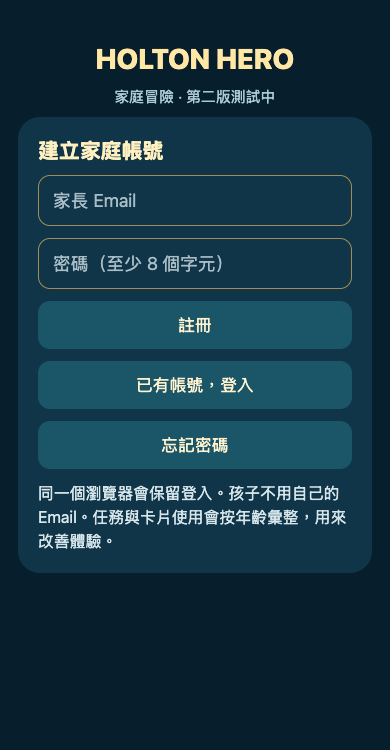
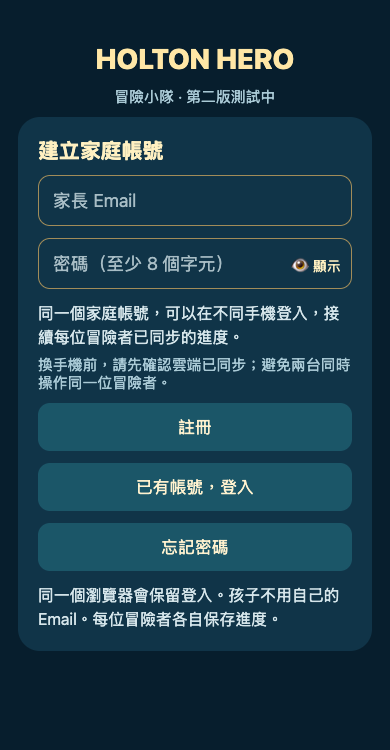
feat(family): edit and restore adventurers with password visibility controls
actor=bot approval=user:23196-and-followups trigger=profile-management-password-eyes-cloud-onboarding

diff --git a/src/family/FamilyApp.tsx b/src/family/FamilyApp.tsx
@@ -1,3 +1,4 @@
+import PasswordInput from '../PasswordInput';
 import ChildNames from './ChildNames';
 import React,{useEffect,useMemo,useState,useRef} from 'react';
 import {View,Text,TextInput,Pressable,ScrollView,StyleSheet,useWindowDimensions} from 'react-native';
@@ -43,7 +44,7 @@ export default function FamilyApp(){
  }
  const heading=<><Text style={styles.title}>HOLTON HERO</Text><Text style={styles.subtitle}>冒險小隊 · 第二版測試中</Text></>;
  if(!loaded)return <View style={styles.page}><Text style={styles.text}>正在準備冒險小隊…</Text></View>;
- if(!session||recovering)return <ScrollView style={styles.page} contentContainerStyle={styles.center} keyboardShouldPersistTaps="handled">{heading}<View style={styles.card}><Text style={styles.heading}>{recovering?'設定新密碼':signup?'建立家庭帳號':'歡迎回到家庭冒險'}</Text>{!recovering?<TextInput accessibilityLabel="家長 Email" autoCapitalize="none" autoComplete="email" keyboardType="email-address" placeholder="家長 Email" placeholderTextColor="#a8bdc5" value={email} onChangeText={setEmail} style={styles.input}/>:null}<TextInput accessibilityLabel="家庭帳號密碼" secureTextEntry autoCapitalize="none" autoComplete={signup||recovering?'new-password':'current-password'} placeholder="密碼（至少 8 個字元）" placeholderTextColor="#a8bdc5" value={password} onChangeText={setPassword} style={styles.input}/><Btn label={recovering?'儲存新密碼':signup?'註冊':'登入'} disabled={busy} onPress={()=>void run(async()=>{if(recovering){if(password.length<8)throw Error('密碼至少 8 個字元。');const {error}=await supabase.auth.updateUser({password});if(error)throw error;setPassword('');setRecovering(false);}else await authenticate();})}/>{!recovering?<><Btn label={signup?'已有帳號，登入':'第一次使用，建立家庭帳號'} disabled={busy} onPress={()=>{setSignup(!signup);setNotice('');}}/><Btn label="忘記密碼" disabled={busy} onPress={()=>void run(async()=>{if(!email.trim())throw Error('請先填家長 Email。');const {error}=await supabase.auth.resetPasswordForEmail(email.trim(),{redirectTo:location.origin});if(error)throw error;setNotice('若這個信箱有帳號，將收到重設密碼信。');})}/></>:null}<Text style={styles.text}>同一個瀏覽器會保留登入。孩子不用自己的 Email。每位冒險者各自保存進度。</Text>{notice?<Text accessibilityRole="alert" style={styles.notice}>{notice}</Text>:null}</View></ScrollView>;
+ if(!session||recovering)return <ScrollView style={styles.page} contentContainerStyle={styles.center} keyboardShouldPersistTaps="handled">{heading}<View style={styles.card}><Text style={styles.heading}>{recovering?'設定新密碼':signup?'建立家庭帳號':'歡迎回到家庭冒險'}</Text>{!recovering?<TextInput accessibilityLabel="家長 Email" autoCapitalize="none" autoComplete="email" keyboardType="email-address" placeholder="家長 Email" placeholderTextColor="#a8bdc5" value={email} onChangeText={setEmail} style={styles.input}/>:null}<PasswordInput key={`${signup}-${recovering}`} resetKey={`${signup}-${recovering}`} accessibilityLabel="家庭帳號密碼" autoCapitalize="none" autoComplete={signup||recovering?'new-password':'current-password'} placeholder="密碼（至少 8 個字元）" placeholderTextColor="#a8bdc5" value={password} onChangeText={setPassword} style={styles.input}/>{!recovering?<View style={{gap:6}}><Text style={styles.text}>{signup?'同一個家庭帳號，可以在不同手機登入，接續每位冒險者已同步的進度。':'換手機也能玩：登入同一家庭帳號，選擇原本的冒險者即可接續已同步的進度。'}</Text>{signup?<Text style={styles.subtitle}>換手機前，請先確認雲端已同步；避免兩台同時操作同一位冒險者。</Text>:null}</View>:null}<Btn label={recovering?'儲存新密碼':signup?'註冊':'登入'} disabled={busy} onPress={()=>void run(async()=>{if(recovering){if(password.length<8)throw Error('密碼至少 8 個字元。');const {error}=await supabase.auth.updateUser({password});if(error)throw error;setPassword('');setRecovering(false);}else await authenticate();})}/>{!recovering?<><Btn label={signup?'已有帳號，登入':'第一次使用，建立家庭帳號'} disabled={busy} onPress={()=>{setSignup(!signup);setNotice('');}}/><Btn label="忘記密碼" disabled={busy} onPress={()=>void run(async()=>{if(!email.trim())throw Error('請先填家長 Email。');const {error}=await supabase.auth.resetPasswordForEmail(email.trim(),{redirectTo:location.origin});if(error)throw error;setNotice('若這個信箱有帳號，將收到重設密碼信。');})}/></>:null}<Text style={styles.text}>同一個瀏覽器會保留登入。孩子不用自己的 Email。每位冒險者各自保存進度。</Text>{notice?<Text accessibilityRole="alert" style={styles.notice}>{notice}</Text>:null}</View></ScrollView>;
  if(playing){const players=children.filter(c=>selected.includes(c.id));return <View style={styles.page}>{players.length===2&&!expanded?<View testID="family-game-nav" style={[styles.top,players.length===2&&!expanded&&{flexDirection:'row',flexWrap:'wrap',alignItems:'center',justifyContent:'space-between'}]}><Btn label={expanded&&players.length===2?'回雙人畫面':'回冒險小隊'} onPress={()=>{if(expanded&&players.length===2)setExpanded(null);else {setPlaying(false);setExpanded(null);setSelected(children.slice(0,2).map(c=>c.id));}}}/>{players.length===2&&!expanded?null:<Text style={styles.text}>任務各自計時</Text>}{players.length===2&&!expanded?<Btn label="兩人一起開始" disabled={busy} onPress={()=>void run(async()=>{const pair=players.map(c=>controls.current[c.id]);if(pair.some(c=>!c?.ready))throw Error('請先替兩位選好夥伴、任務與時間；進行中的任務不會重啟。');const at=Date.now();const results=await Promise.all(pair.map(c=>c!.start(at)));if(results.some(ok=>!ok))throw Error('有任務尚未開始，請查看各自的儲存提示；已開始的會繼續計時。');})}/>:null}{notice?<Text accessibilityRole="alert" style={[styles.notice,{width:'100%'}]}>{notice}</Text>:null}</View>:null}<ScrollView contentContainerStyle={{flexGrow:1}}><View style={{flexDirection:width>=700&&!expanded?'row':'column',flex:1}}>{players.map((c,i)=><View key={c.id} style={{flex:1,display:expanded&&expanded!==c.id?'none':'flex'}}><ChildGame solo={players.length===1} onMenu={()=>void familyMenu()} onSolo={players.length===2?()=>void chooseSolo(c.id):undefined} controls={controls} child={c} compact={players.length===2&&expanded!==c.id} musicOwner={i===0} onExpand={()=>setExpanded(c.id)}/></View>)}</View></ScrollView></View>;}
  return <FamilyStorageContext.Provider value={scope}><ScrollView style={styles.page} contentContainerStyle={styles.center} keyboardShouldPersistTaps="handled">{heading}<View style={styles.card}><Text style={styles.heading}>我們的冒險小隊</Text><Text style={styles.text}>每位冒險者各自保存進度，同畫面最多兩位一起玩。</Text>{children.length>2?<><Text style={styles.text}>選今天的冒險者（最多兩位，可先取消已選的人）。</Text>{children.map(c=><Btn key={c.id} label={`${selected.includes(c.id)?'✓ ':''}${c.nickname}`} onPress={()=>setSelected(ids=>ids.includes(c.id)?ids.filter(id=>id!==c.id):ids.length<2?[...ids,c.id]:ids)}/>)}</>:null}<Btn label={selected.length===2?'開始雙人冒險':'開始冒險'} disabled={!pinReady||selected.length===0||busy} onPress={()=>{setExpanded(null);setManage(false);setPlaying(true);}}/>{children.map(c=><Btn key={c.id} label={`只有 ${c.nickname} 玩`} disabled={!pinReady} onPress={()=>void chooseSolo(c.id)}/>)}{family?<Btn label={pinReady?'家長管理孩子':'設定家長小屋 PIN'} onPress={()=>setPinOpen(true)}/>:<Text style={styles.text}>正在讀取家庭…</Text>}{manage?<View style={{gap:10}}><ChildNames key={family} family={family} children={children} onSaved={kids=>{setChildren(kids);setSelected(kids.slice(0,2).map(c=>c.id));}}/><Btn label="離開家長管理" onPress={()=>setManage(false)}/><Btn label="登出家庭帳號" onPress={()=>void run(async()=>{const {error}=await supabase.auth.signOut();if(error)throw error;})}/></View>:null}{notice?<Text accessibilityRole="alert" style={styles.notice}>{notice}</Text>:null}</View></ScrollView><ParentPinGate visible={pinOpen&&!!family} onConfirm={()=>{setPinOpen(false);setPinReady(true);setManage(true);}} onCancel={()=>setPinOpen(false)}/></FamilyStorageContext.Provider>;
 }

diff --git a/src/family/ChildNames.tsx b/src/family/ChildNames.tsx
@@ -1,19 +1,33 @@
-import React,{useState} from 'react';
-import {View,Text,TextInput,Pressable} from 'react-native';
+import React,{useRef,useState} from 'react';
+import {View,Text,TextInput,Pressable,Modal} from 'react-native';
 import {supabase,listChildren} from './client';
 import {validateChildProfile,type ChildProfile} from './types';
+type Archived={id:string;nickname:string};
 export default function ChildNames({family,children,onSaved}:{family:string;children:ChildProfile[];onSaved:(kids:ChildProfile[])=>void}){
  const [names,setNames]=useState(()=>children.length?children.map(c=>c.nickname):['']);
- const [busy,setBusy]=useState(false),[notice,setNotice]=useState('');
- async function save(){if(busy)return;setBusy(true);setNotice('');try{
-  const values=names.map(n=>n.trim());if(!values[0])throw Error('請先填第一位孩子的名字。');
-  values.forEach((name,i)=>{if(name)validateChildProfile(name,children[i]?.ageYears??null);else if(children[i])throw Error('已有進度的名字不能清空；可以直接修改名字。');});
+ const [busy,setBusy]=useState(false),[notice,setNotice]=useState(''),[editing,setEditing]=useState<number|null>(null),[deleting,setDeleting]=useState<ChildProfile|null>(null),[archived,setArchived]=useState<Archived[]|null>(null);
+ const lock=useRef(false),inputs=useRef<(TextInput|null)[]>([]);
+ const dirty=names.some((n,i)=>n.trim()!==(children[i]?.nickname??''));
+ const button=(label:string,fn:()=>void,danger=false)=><Pressable accessibilityRole="button" accessibilityLabel={label} disabled={busy} onPress={fn} style={{padding:12,minHeight:44,borderWidth:1,borderColor:danger?'#d5a08b':'#a18c59',borderRadius:10,opacity:busy?.5:1}}><Text style={{color:danger?'#ffd2bc':'#fff2cf',textAlign:'center'}}>{label}</Text></Pressable>;
+ async function refresh(){const kids=await listChildren(family);setNames(kids.length?kids.map(c=>c.nickname):['']);setEditing(null);onSaved(kids);}
+ async function loadArchived(){const {data,error}=await supabase.rpc('list_archived_children');if(error)throw error;setArchived(data??[]);}
+ async function run(action:()=>Promise<void>){if(lock.current)return;lock.current=true;setBusy(true);setNotice('');try{await action();}catch(e){setNotice(e instanceof Error?e.message:'操作未完成，請確認網路後再試；原有進度保留。');}finally{lock.current=false;setBusy(false);}}
+ async function save(){await run(async()=>{
+  const values=names.map(n=>n.trim());if(!values.some(Boolean))throw Error('請填寫冒險者名字。');
+  values.forEach((name,i)=>{if(name)validateChildProfile(name,children[i]?.ageYears??null);else if(children[i])throw Error('名字不能清空；要移除請按刪除。');});
   if(new Set(values.filter(Boolean)).size!==values.filter(Boolean).length)throw Error('請使用不同的名字，方便辨認。');
   for(let i=0;i<values.length;i++){if(!values[i]||values[i]===children[i]?.nickname)continue;
    const result=children[i]?await supabase.from('children').update({nickname:values[i]}).eq('id',children[i].id).eq('family_id',family):await supabase.from('children').insert({family_id:family,nickname:values[i],age_years:null});
-   if(result.error)throw result.error;
+   if(result.error){await refresh();throw Error('尚未全部儲存，請確認名字與網路後再試；已有進度不會刪除。');}
   }
-  const kids=await listChildren(family);setNames(kids.map(c=>c.nickname));onSaved(kids);setNotice('名字已儲存，原有進度保留。');
- }catch{try{onSaved(await listChildren(family));}catch{}setNotice('尚未全部儲存，請確認名字與網路後再試；已有進度不會刪除。');}finally{setBusy(false);}}
- return <View style={{gap:12}}><Text style={{color:'#fff0c1',fontSize:22}}>管理冒險者</Text>{names.map((_,i)=><TextInput key={i} accessibilityLabel={`孩子 ${i+1} 的名字`} placeholder={i?'冒險者名字':'第一位冒險者'} placeholderTextColor="#a8bdc5" value={names[i]} maxLength={20} editable={!busy} onChangeText={v=>setNames(old=>old.map((n,j)=>j===i?v:n))} style={{borderWidth:1,borderColor:'#a18c59',borderRadius:12,padding:14,color:'#fff',fontSize:18}}/>)}<Text style={{color:'#c7e1e7'}}>可以建立多位冒險者，同畫面最多選兩位一起玩。</Text><Pressable accessibilityRole="button" accessibilityLabel="新增冒險者" disabled={busy} onPress={()=>setNames(old=>[...old,''])} style={{padding:14,borderWidth:1,borderColor:'#a18c59',borderRadius:12}}><Text style={{color:'#fff2cf',textAlign:'center'}}>＋ 新增冒險者</Text></Pressable><Pressable accessibilityRole="button" accessibilityLabel="儲存名字" disabled={busy} onPress={()=>void save()} style={{padding:14,backgroundColor:'#1b5668',borderRadius:12}}><Text style={{color:'#fff2cf',textAlign:'center'}}>儲存名字</Text></Pressable>{notice?<Text accessibilityRole="alert" style={{color:'#ffd2b0'}}>{notice}</Text>:null}</View>;
+  await refresh();setNotice('名字已儲存，原有進度保留。');
+ });}
+ function requestDelete(child:ChildProfile){if(dirty){setNotice('請先儲存或取消正在編輯的名字，再刪除冒險者。');return;}setDeleting(child);}
+ async function archive(child:Archived,hidden:boolean){await run(async()=>{const {error}=await supabase.rpc('set_child_archived',{p_child_id:child.id,p_archived:hidden});if(error)throw Error('操作未完成，請確認網路；復原時請確認小隊沒有同名冒險者。');await refresh();await loadArchived();setDeleting(null);setNotice(hidden?`已從小隊移除 ${child.nickname}，進度保留，可在下方復原。`:`已復原 ${child.nickname}，原有進度保留。`);});}
+ return <View style={{gap:12}}><Text style={{color:'#fff0c1',fontSize:22}}>管理冒險者</Text>{names.map((_,i)=><View key={children[i]?.id??`new-${i}`} style={{gap:8}}><TextInput ref={el=>{inputs.current[i]=el;}} accessibilityLabel={`孩子 ${i+1} 的名字`} placeholder="冒險者名字" placeholderTextColor="#a8bdc5" value={names[i]} maxLength={20} editable={!busy&&(!children[i]||editing===i)} onChangeText={v=>setNames(old=>old.map((n,j)=>j===i?v:n))} style={{borderWidth:1,borderColor:editing===i?'#ffe0a0':'#a18c59',borderRadius:12,padding:14,color:'#fff',fontSize:18}}/><View style={{flexDirection:'row',gap:8,flexWrap:'wrap'}}>{children[i]?<>{button(`編輯 ${children[i].nickname}`,()=>{setEditing(i);setTimeout(()=>inputs.current[i]?.focus(),0);})}{button(`刪除 ${children[i].nickname}`,()=>requestDelete(children[i]),true)}</>:button('取消新增',()=>setNames(old=>old.filter((_,j)=>j!==i)))}</View></View>)}
+ <Text style={{color:'#c7e1e7'}}>可以建立多位冒險者，同畫面最多選兩位一起玩。</Text>{button('新增冒險者',()=>setNames(old=>[...old,'']))}{button('儲存名字',()=>void save())}{dirty?button('取消編輯',()=>{setNames(children.length?children.map(c=>c.nickname):['']);setEditing(null);setNotice('');}):null}
+ {button('已刪除的冒險者',()=>void run(loadArchived))}{archived?<View style={{gap:8}}>{archived.length?archived.map(c=><View key={c.id}>{button(`復原 ${c.nickname}`,()=>{if(dirty){setNotice('請先儲存或取消編輯。');return;}void archive(c,false);})}</View>):<Text style={{color:'#c7e1e7'}}>沒有已刪除的冒險者。</Text>}</View>:null}
+ {notice?<Text accessibilityRole="alert" style={{color:'#ffd2b0'}}>{notice}</Text>:null}
+ <Modal visible={!!deleting} transparent onRequestClose={()=>!busy&&setDeleting(null)}><View style={{flex:1,justifyContent:'center',alignItems:'center',backgroundColor:'rgba(0,0,0,.8)',padding:20}}><View style={{width:'100%',maxWidth:420,padding:20,gap:16,borderRadius:16,backgroundColor:'#103448'}}><Text style={{color:'#fff0c1',fontSize:22}}>刪除 {deleting?.nickname}？</Text><Text style={{color:'#d5e5ea',fontSize:16,lineHeight:24}}>會從冒險小隊移除，進度仍保留。之後可在「已刪除的冒險者」復原。</Text>{button('取消刪除',()=>setDeleting(null))}{button('確認刪除',()=>{if(deleting)void archive(deleting,true);},true)}{notice?<Text accessibilityRole="alert" style={{color:'#ffd2b0'}}>{notice}</Text>:null}</View></View></Modal>
+ </View>;
 }

diff --git a/src/LightApp.tsx b/src/LightApp.tsx
@@ -380,13 +380,13 @@ export default function LightApp({childNickname,compact=false,musicOwner=true,on
     {error ? <Text accessibilityRole="alert" style={styles.error}>{error}</Text> : null}
     {soundBlocked&&state.phase==='active'&&state.taskSoundEnabled!==false?<View style={styles.card}><Text style={styles.caption}>時間到了。裝置未能自動播放聲音。</Text>{button('播放到時提示音',()=>{armChime();setTimeout(()=>void playChime().then(ok=>setSoundBlocked(!ok)),100);},true)}</View>:null}
     {inVillage&&resumeTutorial&&(homePhase||state.phase==='preparing')?button('繼續新手教學',()=>{void (async()=>{if(state.phase==='done'&&!await change(s=>({...s,phase:'ready',deadline:null,help:false,remaining:s.minutes*60})))return;setTutorialReplay(n=>Math.abs(n)+1);})();},true):null}
-    {inVillage?<AdventureVillage childName={normalizeChildName(state.childName)} reduced={reduceMotion} orbs={state.orbs} world={worlds[world].name} steps={journey.counts[world]} today={today.length} goal={state.dailyGoal??3} task={state.title} ongoing={!homePhase} saving={saving} onStart={()=>void startFromVillage()} onVisit={place=>{if(place==='map')setMapOpen(true);else if(place==='parent')openParent();else navigateRoom(place);}}/>:null}
+    {inVillage?<AdventureVillage childName={normalizeChildName(childNickname??state.childName)} reduced={reduceMotion} orbs={state.orbs} world={worlds[world].name} steps={journey.counts[world]} today={today.length} goal={state.dailyGoal??3} task={state.title} ongoing={!homePhase} saving={saving} onStart={()=>void startFromVillage()} onVisit={place=>{if(place==='map')setMapOpen(true);else if(place==='parent')openParent();else navigateRoom(place);}}/>:null}
     {!settingsOpen&&homePhase&&room==='mission'?<><View style={{flexDirection:'row',justifyContent:'space-between',gap:8}}>{button('冒險地圖',()=>setMapOpen(true),true)}{button('看看我的旅程',()=>setJourneyOpen(true),true)}</View>{state.phase==='ready'?<View style={{gap:8}}>{journey.counts[world]===0?<Text style={[styles.body,{padding:12,backgroundColor:'rgba(8,35,49,.7)',borderRadius:14}]}>{worlds[world].intro}</Text>:null}<JourneyHint journeys={journey} world={world} onPress={()=>setJourneyOpen(true)}/></View>:null}</>:null}
 
     {settingsOpen ? <>
       <Text style={styles.body}>一起約定目標與獎勵，照孩子的步調來。</Text>
       <View testID="parent-layout">{familyNavigation?<View testID="family-mode-settings" style={styles.card}><Text style={styles.section}>小隊遊玩模式</Text><Text style={styles.caption}>{familyNavigation.sync}</Text>{familyNavigation.onSolo?button('改為完整單人模式',familyNavigation.onSolo,true):<Text style={styles.body}>目前為完整單人模式</Text>}{button('切換孩子／雙人模式',familyNavigation.onMenu,true)}</View>:null}<View testID="parent-nav" style={{flexDirection:'row',flexWrap:'wrap',gap:8}}>{([['profile','小朋友資料'],['tasks','任務與目標'],['rewards','心願獎勵'],['music','音樂'],['preferences','設定與教學'],['records','完成紀錄'],['backup','備份與重置']] as const).map(([id,label])=><Pressable key={id} accessibilityRole="button" accessibilityLabel={label} accessibilityState={{selected:parentTab===id}} onPress={()=>{setParentTab(id);setNotice('');}} style={[styles.smallLink,parentTab===id&&styles.selectedCard]}><Text style={styles.body}>{label}</Text></Pressable>)}</View>
-      <View testID="parent-content">{parentTab==='profile'?<ChildProfile name={normalizeChildName(state.childName)} busy={saving} onSave={name=>change(s=>({...s,childName:name}))}/>:null}
+      <View testID="parent-content">{parentTab==='profile'?(familyNavigation?<View style={styles.card}><Text style={styles.section}>{normalizeChildName(childNickname??state.childName)}</Text>{button('管理冒險者名字',familyNavigation.onMenu,true)}</View>:<ChildProfile name={normalizeChildName(childNickname??state.childName)} busy={saving} onSave={name=>change(s=>({...s,childName:name}))}/>):null}
       {parentTab==='music'?<FocusMusicSettings enabled={state.focusMusicEnabled===true} selected={musicTrack} previewId={music.previewId} busy={saving} status={music.status} onToggle={()=>void toggleMusic()} onSelect={id=>{music.stopPreview();void change(s=>({...s,focusMusicTrackId:id}));}} onPreview={music.preview} onRetry={music.retry} onStopPreview={music.stopPreview}/>:null}
       {parentTab==='backup'?<BackupTools data={state} busy={saving} allowed={homePhase&&!challenge} onRestore={snapshot=>replaceProgress(snapshot)} onReset={()=>replaceProgress(null)} onReadRecovery={()=>storage.getItem(RECOVERY_KEY)}/>:null}
       {parentTab==='records'?<WeeklyFootprints history={state.history} receipts={state.wishReceipts??[]} now={now}/>:null}
@@ -504,7 +504,7 @@ export default function LightApp({childNickname,compact=false,musicOwner=true,on
     {!inVillage && showWorldReminder ? <View style={styles.reminder} accessibilityLiveRegion="polite"><Text style={styles.section}>你有世界卡可以換點數！</Text><Text style={styles.body}>目前可領 ＋{exchangePlan.points} 能量球，現在領取嗎？</Text><Text style={styles.caption}>先看明細，再確認。下次再換也不會過期。</Text>{button('去兌換', () => setWorldExchangeOpen(true))}{button('下次再說', () => void change(s => ({ ...s, worldReminderDismissedDay: worldExchangeDay(Date.now()) })), true)}</View> : null}
       {!settingsOpen && showWorldAlbum && !!state.collection?.length ? <View style={styles.card}><Text style={styles.section}>我的世界卡</Text><Text style={styles.body}>{exchangePlan.blocked ? '今天已兌換，新卡留到明天。' : `目前可換 ＋${exchangePlan.points} 能量球`}</Text>{button('查看兌換明細', () => setWorldExchangeOpen(true), true)}<ScrollView horizontal contentContainerStyle={styles.deck}>{state.collection.map(item => { const card = worldEvents.find(c => c.id === item.cardId); return card ? <View key={item.id} style={styles.taskCard}><Image source={card.imageSource} accessibilityLabel={card.title} resizeMode="contain" style={styles.cardArt} /><Text style={styles.cardName}>{card.title}</Text><Text style={styles.caption}>{item.redeemedAt ? '✓ 已兌換 · 保留收藏' : worldRewardLabel(item.cardId)}</Text></View> : null; })}</ScrollView></View> : null}
   </ScrollView>
-    <WelcomeGuide childName={normalizeChildName(state.childName)} askName={state.onboardingDone===false} error={error} visible={(state.onboardingDone===false||introReplay)&&homePhase&&!pending&&!challenge} busy={saving} onClose={(start,name)=>void finishGuide(start,name)}/>
+    <WelcomeGuide childName={normalizeChildName(childNickname??state.childName)} askName={state.onboardingDone===false} error={error} visible={(state.onboardingDone===false||introReplay)&&homePhase&&!pending&&!challenge} busy={saving} onClose={(start,name)=>void finishGuide(start,name)}/>
     <SpotlightGuide key={`guide-${tutorialReplay}`} allowed={!compact&&!freshTutorial&&state.onboardingDone!==false&&!introReplay&&!pending&&!challenge&&!journey.event&&parentGateTab===null&&!collectionOpen&&!worldExchangeOpen&&(settingsOpen||state.phase==='ready'||state.phase==='preparing')} room={settingsOpen?(parentTab==='music'?'music':'parent'):room} replay={tutorialReplay} phase={state.phase} pickerOpen={taskPickerOpen} hasTask={!!state.title} onMission={()=>navigateRoom('mission')} onPicker={()=>{setDetailCustom(false);setTaskPickerOpen(true);}} onMusicDone={music.stopPreview} onResumeChange={setResumeTutorial}/>
     <ParentPinGate visible={changePin} change onConfirm={()=>setChangePin(false)} onCancel={()=>setChangePin(false)}/>
     <ParentGate visible={parentGateTab!==null} onCancel={()=>setParentGateTab(null)} onConfirm={()=>parentGateTab&&enterParent(parentGateTab)}/>

diff --git a/src/ParentPinGate.tsx b/src/ParentPinGate.tsx
@@ -1,3 +1,4 @@
+import PasswordInput from './PasswordInput';
 import {useFamilyStorage} from './family/context';
 import React,{useEffect,useRef,useState} from 'react';
 import {Modal,View,Text,TextInput,Pressable,ScrollView} from 'react-native';
@@ -14,7 +15,7 @@ export function ParentPinGate({visible,onConfirm,onCancel,change=false}:{visible
  else throw Error(mode==='recovery'?'復原碼不正確。':'家長密碼不正確。');
  }catch(e){setNotice(e instanceof Error?e.message:'操作失敗，請再試一次。');}finally{lock.current=false;setBusy(false);}};
  const button=(label:string,fn:()=>void)=><Pressable accessibilityRole="button" accessibilityLabel={label} disabled={busy} onPress={fn} style={{padding:15,backgroundColor:'#086b80',borderRadius:14,marginTop:12}}><Text style={{color:'#fff',textAlign:'center',fontSize:18}}>{label}</Text></Pressable>;
- const input=(label:string,v:string,fn:(v:string)=>void)=><TextInput accessibilityLabel={label} placeholder={label} placeholderTextColor="#9db6bd" secureTextEntry autoComplete="off" value={v} onChangeText={fn} keyboardType={mode==='recovery'?'default':'number-pad'} maxLength={mode==='recovery'?32:6} style={{fontSize:18,color:'#fff',borderColor:'#c3a65c',borderWidth:1,padding:14,borderRadius:12,marginTop:12}}/>;
+ const input=(label:string,v:string,fn:(v:string)=>void)=><PasswordInput key={`${label}-${visible}-${mode}`} resetKey={`${visible}-${mode}`} accessibilityLabel={label} placeholder={label} placeholderTextColor="#9db6bd" autoComplete="off" value={v} onChangeText={fn} keyboardType={mode==='recovery'?'default':'number-pad'} maxLength={mode==='recovery'?32:6} style={{fontSize:18,color:'#fff',borderColor:'#c3a65c',borderWidth:1,padding:14,borderRadius:12,marginTop:12}}/>;
  return <Modal visible={visible} transparent onRequestClose={()=>!busy&&onCancel()}><View style={{flex:1,backgroundColor:'rgba(0,0,0,.8)',justifyContent:'center',padding:20}}><ScrollView keyboardShouldPersistTaps="handled" contentContainerStyle={{flexGrow:1,justifyContent:'center',alignItems:'center'}}><View testID="parent-pin-gate" style={{width:'100%',maxWidth:440,padding:24,backgroundColor:'#082b3d',borderRadius:20}}><Text style={{color:'#fff0b3',fontSize:24,fontWeight:'bold'}}>{mode==='setup'?'設定家長密碼':mode==='keep'?'請保管家長復原碼':mode==='recovery'?'使用復原碼':'家長小屋解鎖'}</Text><Text style={{color:'#d5e5e9',marginTop:12}}>這台裝置專用，與試玩通關密碼不同。請由家長操作，不要告訴孩子。</Text>
  {mode==='verify'||mode==='setup'||mode==='recovery'?input(mode==='recovery'?'家長復原碼':'6 位數家長密碼',value,setValue):null}
  {mode==='setup'?input('再次輸入家長密碼',repeat,setRepeat):null}

diff --git a/src/PasswordInput.tsx b/src/PasswordInput.tsx
@@ -1,0 +1,8 @@
+import React,{useEffect,useState} from 'react';
+import {AppState,Pressable,Text,TextInput,View,type TextInputProps} from 'react-native';
+export default function PasswordInput({resetKey,...props}:TextInputProps&{resetKey?:string}){
+ const [shown,setShown]=useState(false);
+ useEffect(()=>setShown(false),[resetKey]);
+ useEffect(()=>{const sub=AppState.addEventListener('change',s=>{if(s!=='active')setShown(false);});const hide=()=>{if(document.hidden)setShown(false);};if(typeof document!=='undefined')document.addEventListener('visibilitychange',hide);return()=>{sub.remove();if(typeof document!=='undefined')document.removeEventListener('visibilitychange',hide);};},[]);
+ return <View style={{position:'relative'}}><TextInput {...props} secureTextEntry={!shown} style={[props.style,{paddingRight:80}]}/><Pressable accessibilityRole="button" accessibilityLabel={`${shown?'隱藏':'顯示'}${props.accessibilityLabel??'密碼'}`} accessibilityState={{checked:shown}} onPress={()=>setShown(v=>!v)} style={{position:'absolute',right:4,top:4,bottom:4,minWidth:64,minHeight:44,alignItems:'center',justifyContent:'center'}}><Text style={{color:'#fff0c1',fontSize:14}}>👁 {shown?'隱藏':'顯示'}</Text></Pressable></View>;
+}
